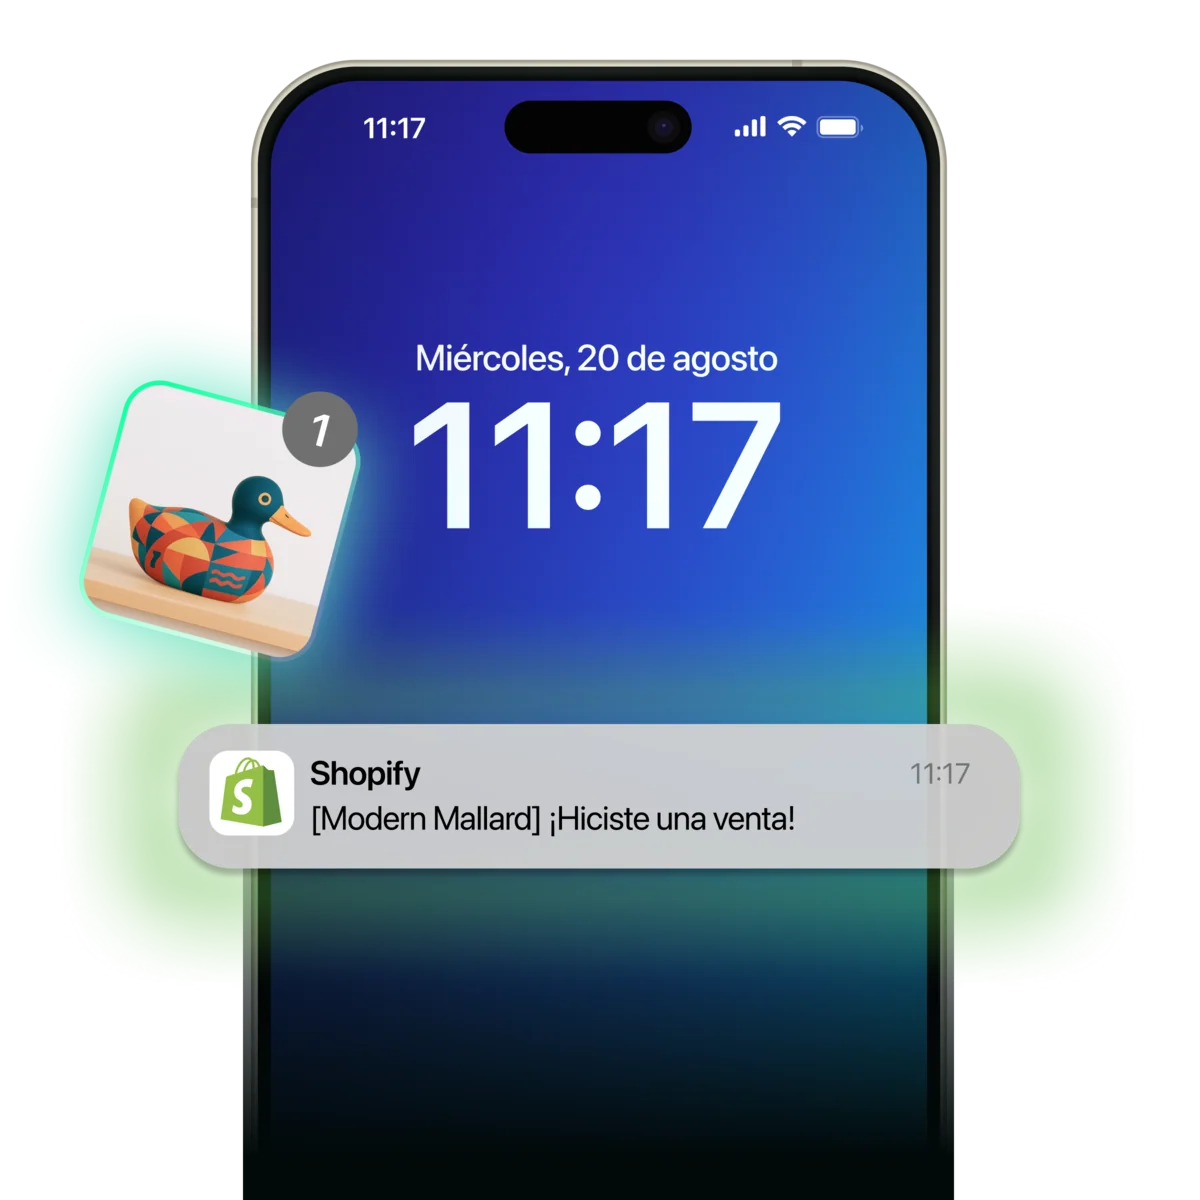
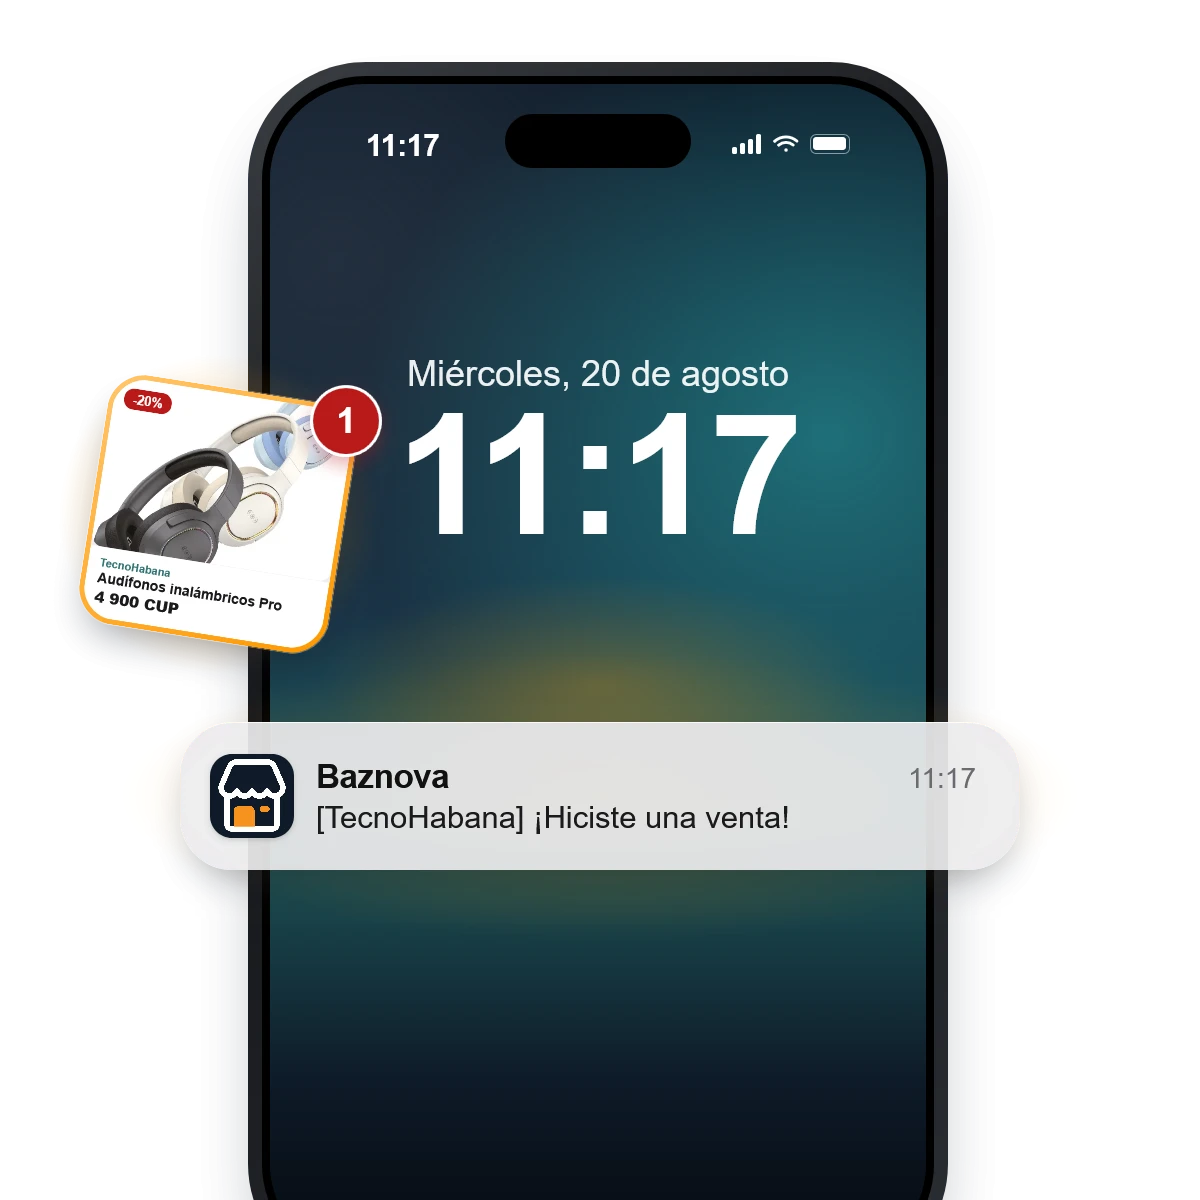
Bloque 256 — Imagen de "Abre tu tienda" más grande en celular, siempre pegada abajo
La imagen móvil estaba limitada por el relleno de la tarjeta (283px de 343px).
Ahora ocupa el ancho completo de la tarjeta (343px de ancho y 193px de alto,
antes 283x159, un 21% más grande), sin márgenes laterales y con 0px de separación
del borde inferior.

diff --git a/frontend/src/pages/public/Home.jsx b/frontend/src/pages/public/Home.jsx
@@ -335,8 +335,8 @@ export default function Home() {
                 mostrar su imagen. Va DENTRO del flujo, debajo de los botones y
                 pegada al borde inferior de la tarjeta (-mb-6 anula el relleno),
                 en vez del relleno fijo de ~224px que reservaba el Bloque 106. */}
-            <div className="-mb-6 flex w-full justify-center md:hidden">
-              <img src={vendorMockupImageMobile} alt="" aria-hidden="true" className="pointer-events-none w-64 select-none drop-shadow-2xl sm:w-80" />
+            <div className="-mx-6 -mb-6 flex w-[calc(100%+3rem)] justify-center md:hidden">
+              <img src={vendorMockupImageMobile} alt="" aria-hidden="true" className="pointer-events-none w-full max-w-[460px] select-none drop-shadow-2xl" />
             </div>
           </div>
         </section>
